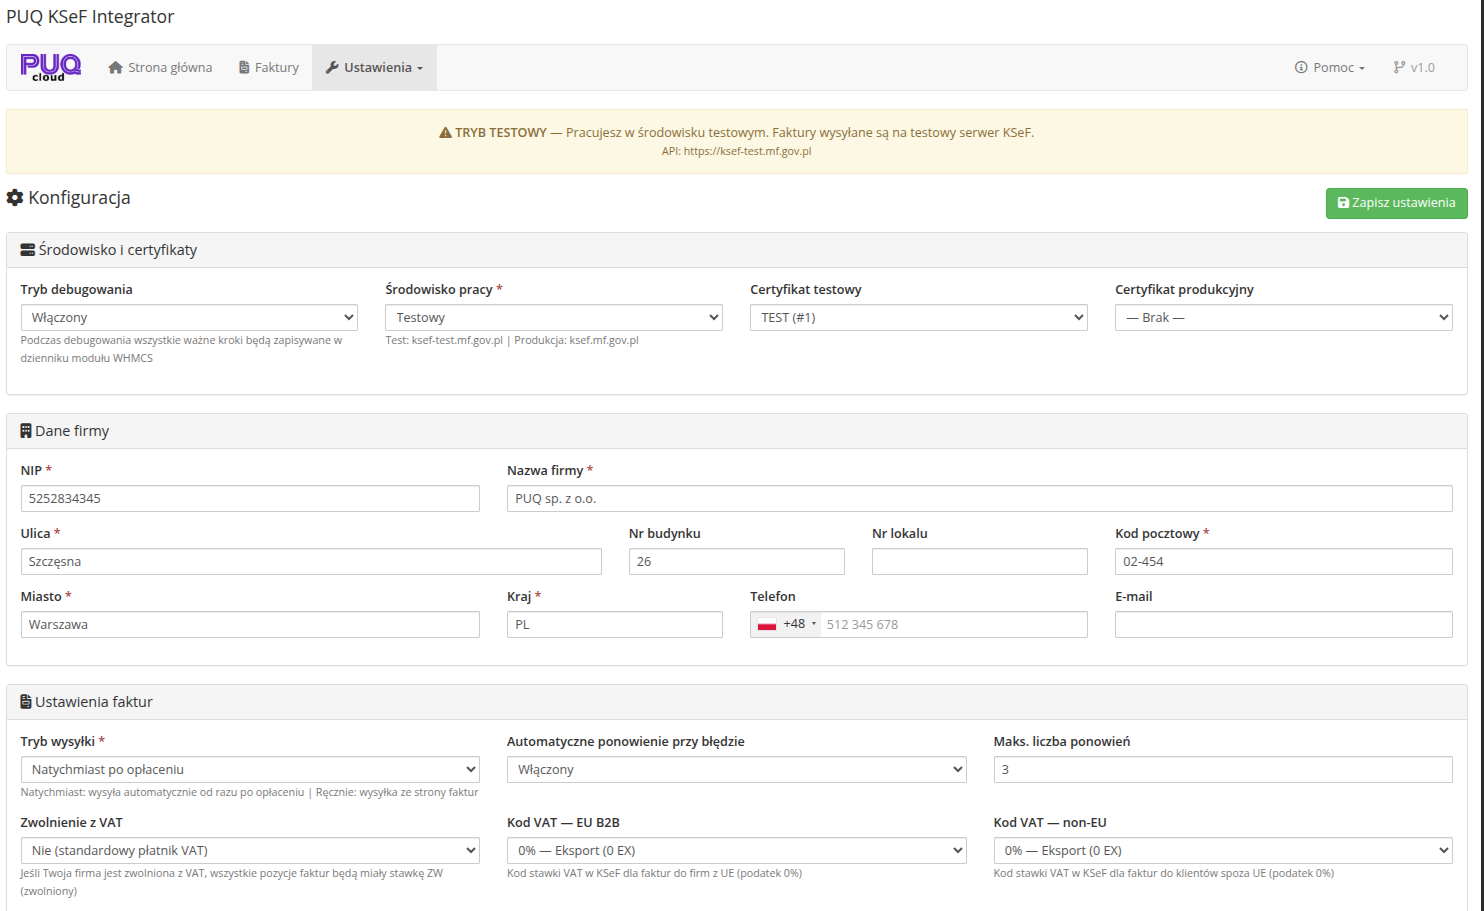
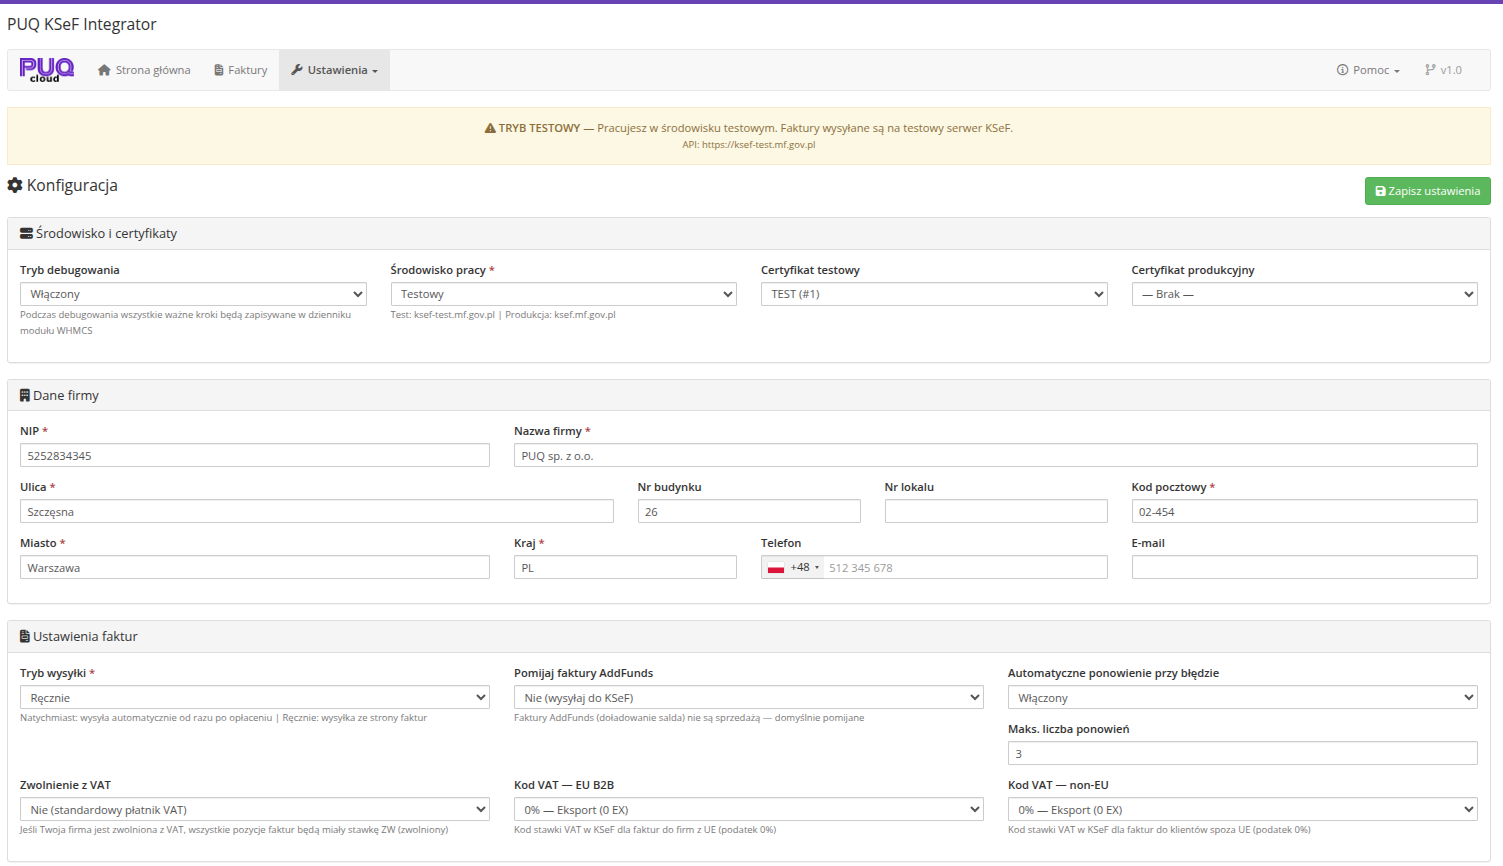
docs: sync documentation 2026-03-28 10:21

diff --git a/05-konfiguracja-i-ustawienia/01-konfiguracja.md b/05-konfiguracja-i-ustawienia/01-konfiguracja.md
@@ -49,6 +49,7 @@ W tej sekcji nalezy podac dane sprzedawcy, ktore beda umieszczone na kazdej e-Fa
 | Pole | Opis |
 |------|------|
 | **Tryb wysylki** | **Natychmiast po oplaceniu** — faktury sa automatycznie wysylane do KSeF zaraz po oplaceniu w WHMCS. **Reczny** — faktury sa zapisywane w kolejce ze statusem "oczekuje", administrator musi je wyslac recznie. |
+| **Pomijaj faktury AddFunds** | **Tak (pomijaj)** — faktury za doladowanie salda klienta (AddFunds) nie beda wysylane do KSeF. **Nie (wysylaj do KSeF)** — faktury AddFunds beda traktowane jak zwykle faktury sprzedazowe. Domyslnie: Tak. Doladowania salda nie sa rzeczywista sprzedaza towaru/uslugi, dlatego zazwyczaj nie powinny byc raportowane w KSeF. |
 | **Automatyczne ponowienie przy bledzie** | Wlaczony / Wylaczony. Gdy wlaczony, modul automatycznie podejmie probe ponownej wysylki w przypadku bledu. |
 | **Maks. liczba ponowien** | Maksymalna liczba prob ponownej wysylki (domyslnie: 3). |
 | **Zwolnienie z VAT** | **Nie (standardowy platnik VAT)** — firma rozlicza VAT normalnie. **Tak (firma zwolniona z VAT)** — wszystkie pozycje faktur beda mialy stawke ZW (zwolniony). |

diff --git a/CHANGELOG.md b/CHANGELOG.md
@@ -3,6 +3,19 @@
 ### KSeF Integrator addon **[WHMCS](https://puqcloud.com/link.php?id=77)**
 #####  [Order now](https://puqcloud.com/whmcs-addon-puq-ksef-integrator.php) | [Download](https://download.puqcloud.com/WHMCS/addons/PUQ_WHMCS-KSeF-Integrator/) | [FAQ](https://community.puqcloud.com/)
 
+## v1.1 — 2026-03-28
+
+### Nowe funkcje
+
+- **Pomijanie faktur AddFunds** — nowa opcja w ustawieniach pozwala automatycznie pomijac faktury za doladowanie salda klienta. Doladowania nie sa rzeczywista sprzedaza i nie powinny byc raportowane w KSeF. Domyslnie wlaczone.
+
+### Poprawki i ulepszenia
+
+- **Poprawiona klasyfikacja nabywcy z UE** — ulepszone czyszczenie numeru EU VAT ID z niewidocznych znakow (BOM, zero-width space itp.), ktore mogly powodowac bledna klasyfikacje klientow unijnych jako osob fizycznych zamiast firm
+- **Lepsza walidacja danych podatkowych** — pole `tax_id` (numer VAT) jest teraz agresywniej oczyszczane ze znakow specjalnych, co eliminuje problemy z danymi importowanymi lub kopiowanymi z zewnetrznych zrodel
+
+---
+
 ## v1.0 — 2026-02-12
 
 Pierwsza wersja modulu.
